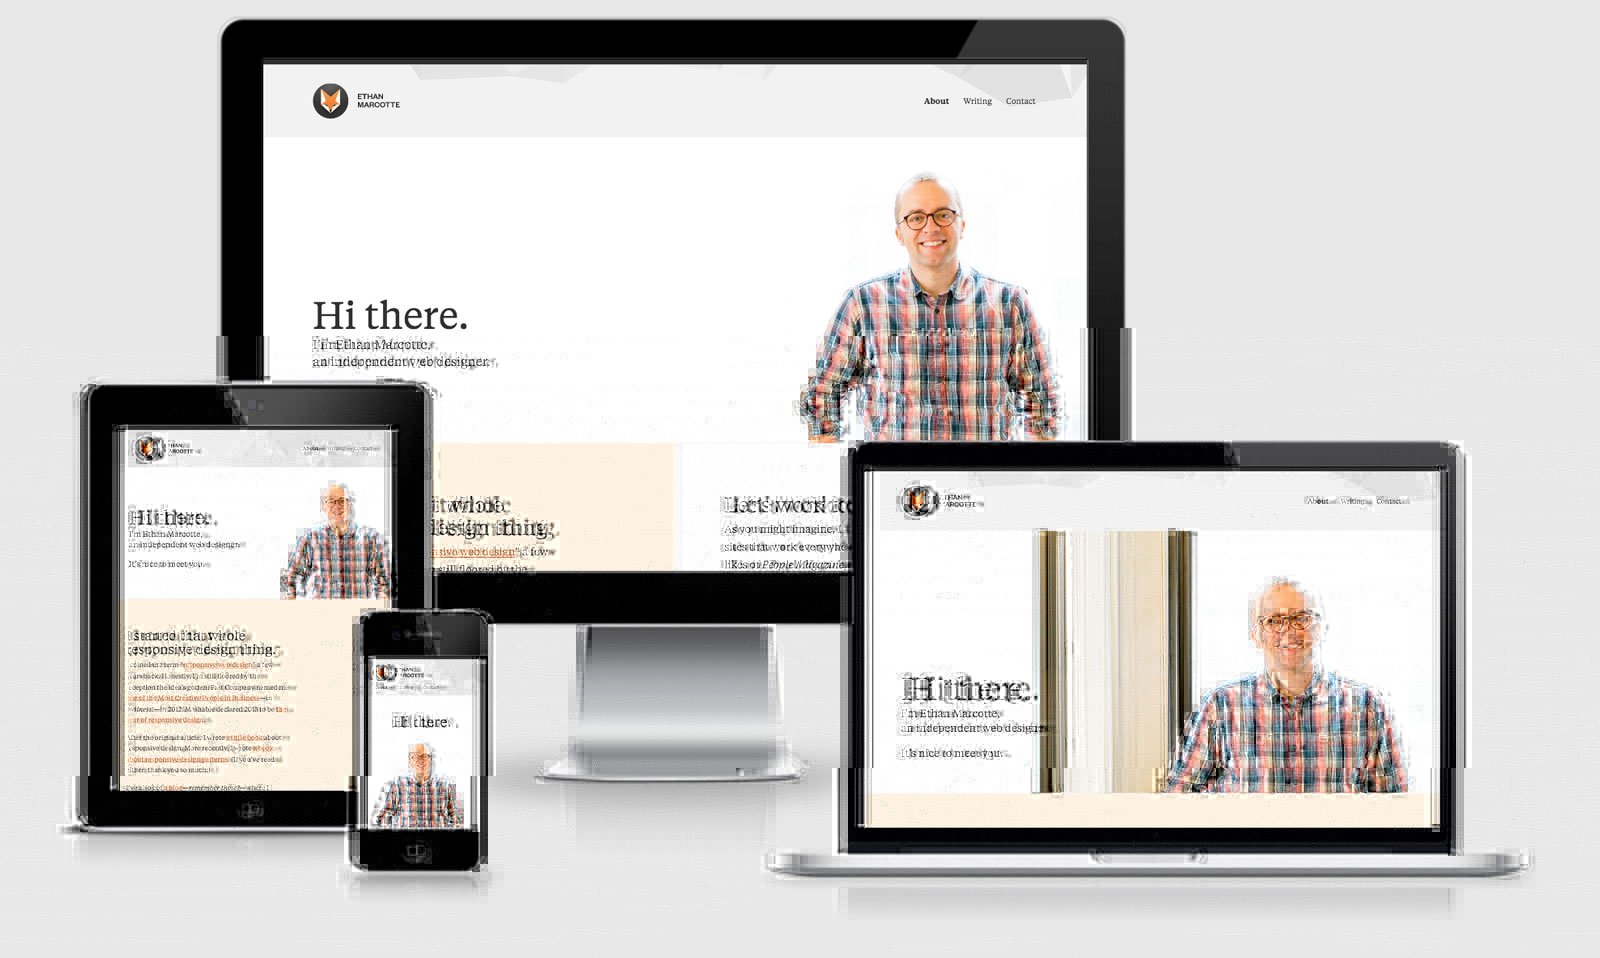
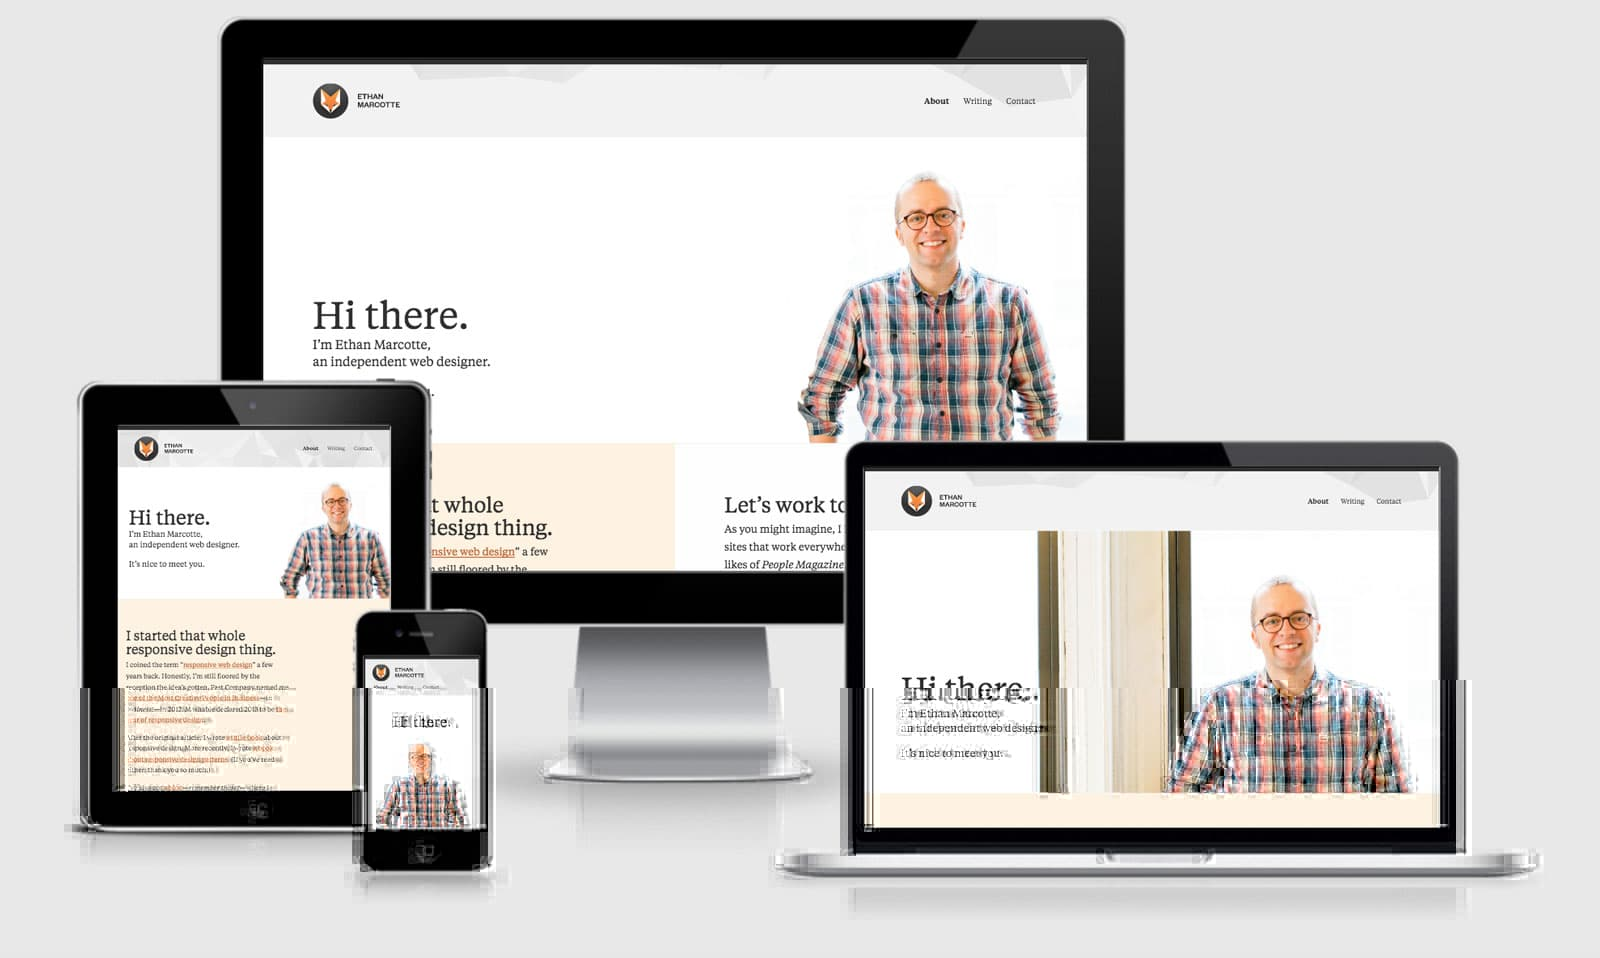
fix img

diff --git a/index.html b/index.html
@@ -52,7 +52,7 @@
 						<p class="fragment grow">A web page should look good on any device</p>
 				</section>
 				<section>
-					<img src="./img/devices-screen-sizes.png" alt="screen sizes">
+					<img src="./img/devices-screen-sizes.jpg" alt="screen sizes">
 				</section>
 				<section>
 					<h3>Responsive vs adaptive</h3>
